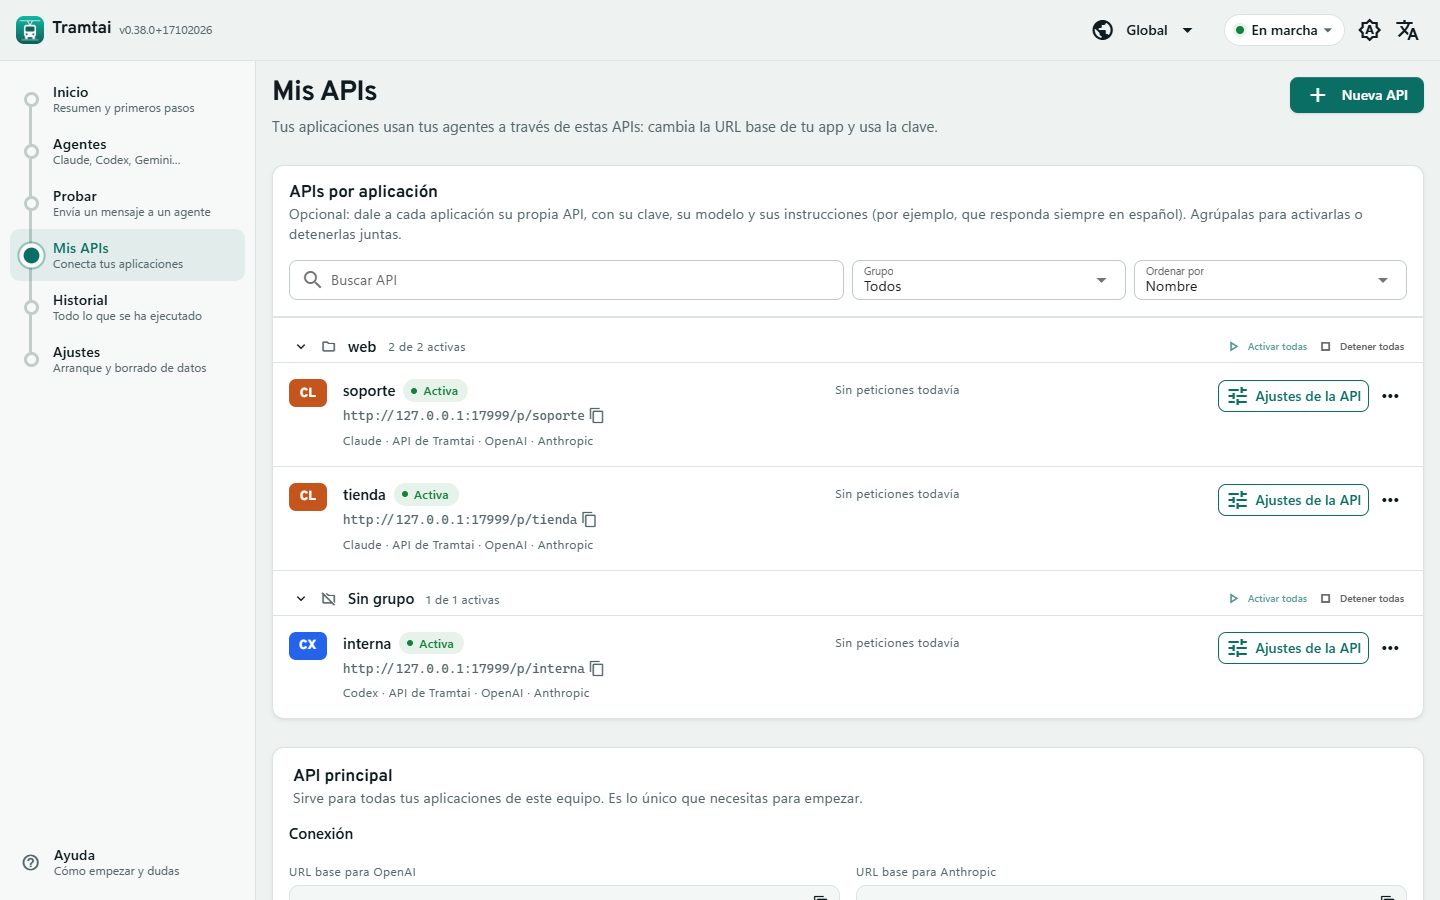
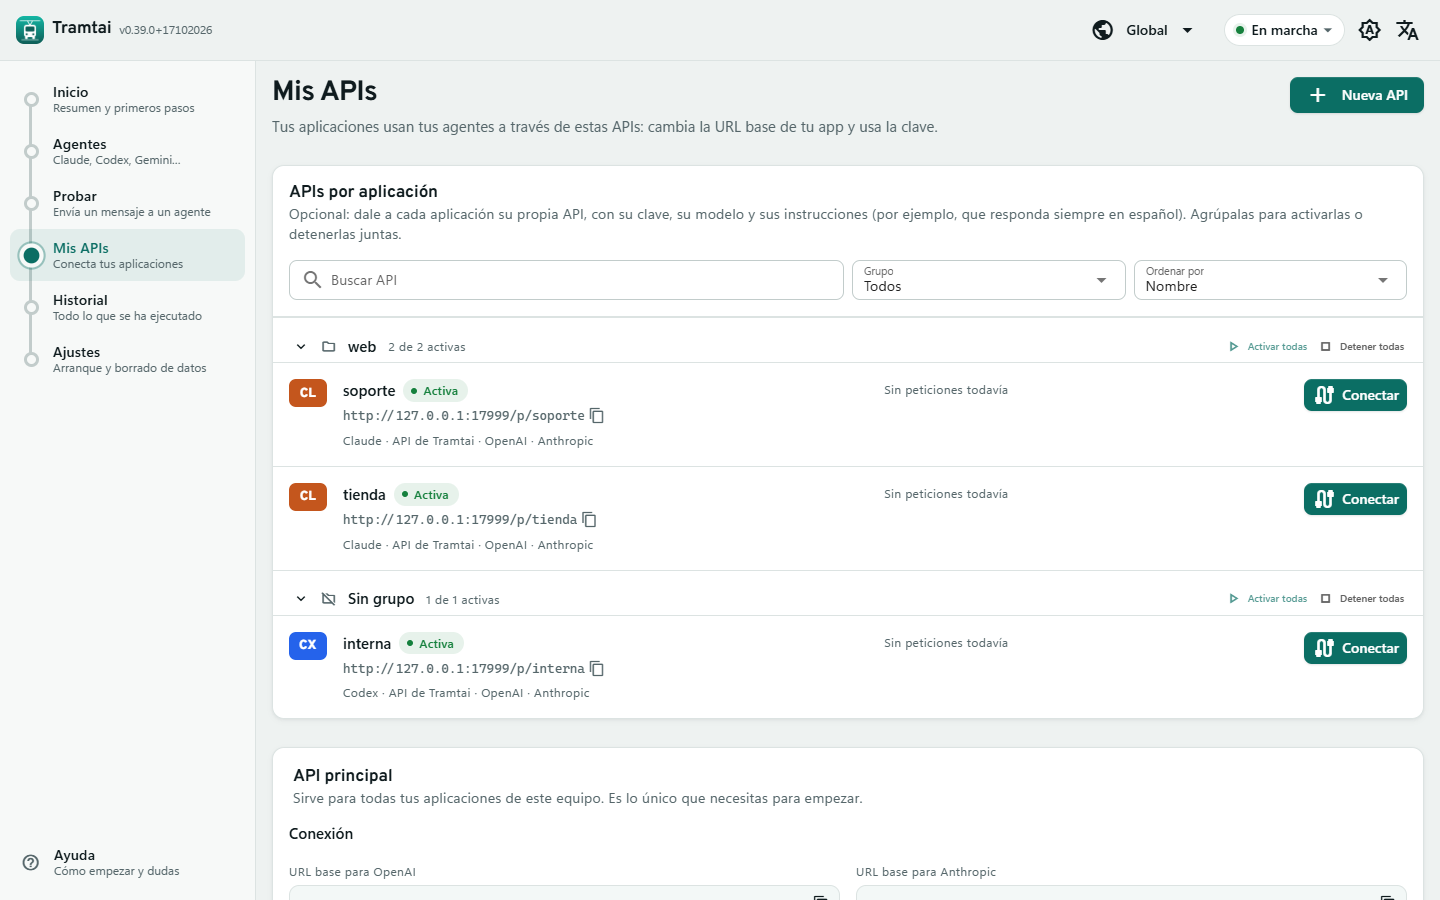
docs: cuenta atrás, detalle de cada API y pendientes cerrados
- operacion.md: la cuenta atrás antes de instalar y el detalle de cada API en Mis APIs.
- pendientes.md: sin listas de pendientes de las revisiones (queda el de webhooks, en su release) y sin la tarea del
  arranque en macOS y Linux, que ya existía.
- Página: textos alternativos en inglés (data-alt-en), theme-color también en oscuro; capturas y README con la Mis
  APIs nueva.

diff --git a/site/index.html b/site/index.html
@@ -8,7 +8,8 @@
 <meta property="og:title" content="Tramtai · Tus agentes de IA como una API local">
 <meta property="og:description" content="Claude Code, Codex, Antigravity y la API de Gemini como una API compatible con OpenAI y Anthropic, en tu equipo.">
 <meta property="og:image" content="logo.png">
-<meta name="theme-color" content="#0b6e64">
+<meta name="theme-color" content="#0b6e64" media="(prefers-color-scheme: light)">
+<meta name="theme-color" content="#0a1116" media="(prefers-color-scheme: dark)">
 <link rel="icon" href="logo.png">
 <link rel="stylesheet" href="estilo.css">
 <script>try { var t = localStorage.getItem('tramtai.tema'); if (t === 'claro' || t === 'oscuro') document.documentElement.dataset.tema = t } catch (e) {}</script>
@@ -138,13 +139,13 @@ respuesta = cliente.chat.completions.create(
       </div>
       <div class="capturas">
         <figure class="captura">
-          <img class="solo-claro" src="capturas/inicio-claro.png" width="1440" height="900" loading="lazy" alt="Inicio: tus apps, Tramtai y una línea por agente con su estado">
-          <img class="solo-oscuro" src="capturas/inicio-oscuro.png" width="1440" height="900" loading="lazy" alt="Inicio: tus apps, Tramtai y una línea por agente con su estado">
+          <img class="solo-claro" src="capturas/inicio-claro.png" width="1440" height="900" loading="lazy" alt="Inicio: tus apps, Tramtai y una línea por agente con su estado" data-alt-en="Home: your apps, Tramtai and one line per agent with its status">
+          <img class="solo-oscuro" src="capturas/inicio-oscuro.png" width="1440" height="900" loading="lazy" alt="Inicio: tus apps, Tramtai y una línea por agente con su estado" data-alt-en="Home: your apps, Tramtai and one line per agent with its status">
           <figcaption><span lang="es">Inicio: tus apps, Tramtai y una línea por agente con su estado</span><span lang="en">Home: your apps, Tramtai and one line per agent with its status</span></figcaption>
         </figure>
         <figure class="captura">
-          <img class="solo-claro" src="capturas/mis-apis-claro.png" width="1440" height="900" loading="lazy" alt="Mis APIs: la dirección, la clave y ejemplos listos para copiar">
-          <img class="solo-oscuro" src="capturas/mis-apis-oscuro.png" width="1440" height="900" loading="lazy" alt="Mis APIs: la dirección, la clave y ejemplos listos para copiar">
+          <img class="solo-claro" src="capturas/mis-apis-claro.png" width="1440" height="900" loading="lazy" alt="Mis APIs: tus APIs por grupo, con buscador y orden, y cómo conectar cada una" data-alt-en="My APIs: your APIs by group, with search and sorting, and how to connect each one">
+          <img class="solo-oscuro" src="capturas/mis-apis-oscuro.png" width="1440" height="900" loading="lazy" alt="Mis APIs: tus APIs por grupo, con buscador y orden, y cómo conectar cada una" data-alt-en="My APIs: your APIs by group, with search and sorting, and how to connect each one">
           <figcaption><span lang="es">Mis APIs: la dirección, la clave y ejemplos listos para copiar</span><span lang="en">My APIs: the address, the key and ready-to-copy examples</span></figcaption>
         </figure>
       </div>

diff --git a/site/ayuda.html b/site/ayuda.html
@@ -8,7 +8,8 @@
 <meta property="og:title" content="Ayuda · Tramtai">
 <meta property="og:description" content="Instalar, conectar agentes y aplicaciones, actualizaciones y preguntas frecuentes.">
 <meta property="og:image" content="logo.png">
-<meta name="theme-color" content="#0b6e64">
+<meta name="theme-color" content="#0b6e64" media="(prefers-color-scheme: light)">
+<meta name="theme-color" content="#0a1116" media="(prefers-color-scheme: dark)">
 <link rel="icon" href="logo.png">
 <link rel="stylesheet" href="estilo.css">
 <script>try { var t = localStorage.getItem('tramtai.tema'); if (t === 'claro' || t === 'oscuro') document.documentElement.dataset.tema = t } catch (e) {}</script>

diff --git a/site/sitio.js b/site/sitio.js
@@ -3,6 +3,11 @@
   var botones = document.querySelectorAll('[data-idioma]');
   function aplicar(idioma) {
     document.documentElement.lang = idioma;
+    // Los textos alternativos no admiten <span lang>: cada imagen guarda el inglés en data-alt-en.
+    document.querySelectorAll('img[data-alt-en]').forEach(function (img) {
+      if (!img.dataset.altEs) img.dataset.altEs = img.alt;
+      img.alt = idioma === 'en' ? img.dataset.altEn : img.dataset.altEs;
+    });
     botones.forEach(function (b) { b.setAttribute('aria-pressed', String(b.dataset.idioma === idioma)); });
   }
   var guardado = null;

diff --git a/docs/equipo/pendientes.md b/docs/equipo/pendientes.md
@@ -27,7 +27,8 @@ Cada tema va en su propio release, con su spec, plan, revisión y documentación
 | v0.36.0 | Rediseño de la presentación: cabecera común con Volver, Mis APIs, estados vacíos, esfuerzo predeterminado por modelo; página del producto con tema claro u oscuro y capturas nuevas | ✅ |
 | v0.36.1 | Probar: la línea de la ruta ya no se sale de la tarjeta mientras la petición avanza | ✅ |
 | v0.37.0 | Actualizaciones: se borran los instaladores descargados y, tras actualizar, un diálogo con las novedades de las versiones saltadas | ✅ |
-| — | Mis APIs con la lista primero (buscador, grupo, orden), grupos plegables y mapa de Inicio por grupo; Historial por origen y grupo con Ver más; límites del historial (tope de peticiones, plazos en Ajustes, compactar la base); origen de cada petición (Probar, terminal, CLI, app o API) | ⬜ |
+| v0.38.0 | Mis APIs con la lista primero (buscador, grupo, orden), grupos plegables y mapa de Inicio por grupo; Historial por origen y grupo con Ver más; límites del historial (tope de peticiones, plazos en Ajustes, compactar la base); origen de cada petición (Probar, terminal, CLI, app o API) | ✅ |
+| — | Pulido: cuenta atrás de 10 s antes de instalar (Reiniciar ahora o Cancelar); detalle de cada API en Mis APIs con cómo conectarla y sus acciones; todos los pendientes de las revisiones cerrados | ⬜ |
 | — | Probar: esfuerzo junto al modelo, esfuerzo por agente de respaldo con su predeterminado, registro con tiempos por etapa, historial breve de pruebas y respuesta con formato Markdown | ⬜ |
 | — | API propia `/api/v1` explicada: guía «¿Qué URL uso?», ejemplos para copiar y documentación | ⬜ |
 | — | Copilot CLI como agente nuevo | ⬜ |
@@ -39,10 +40,6 @@ Cada tema va en su propio release, con su spec, plan, revisión y documentación
 Pendientes ya asignados:
 
 - **Webhooks:** los avisos del 80 % y del 100 % se evalúan con los periodos de la hora actual, pero el consumo va al día de aceptación: un cruce del día anterior causado por un trabajo que termina pasada la medianoche no se registra. Evaluar también el periodo de aceptación al sumar.
-- **Grupos e historial (posterior):** la purga con tope usa `NOT IN` (unos 0,5 s con 100 000 trabajos; calcular el corte con `OFFSET`); el `VACUUM` único al actualizar no deja línea en el registro ni trunca el WAL; «Ver más» no descarta su respuesta si el filtro cambió en medio; Mis APIs oculta la barra con una sola API aunque quede un filtro activo; Ajustes redondea a días un registro que no es múltiplo de 24 h; plurales («1 APIs», «1 activas», «1 días»); el mapa en el móvil no muestra las activas de cada grupo; `fijarRetencion` no registra el error de su purga; `Purgar` no cuenta lo que borra el tope; en 375 px «Detener todas» baja de línea.
-- **Actualizaciones (posterior):** guardar en memoria unos minutos la lista de versiones de GitHub (hoy cada consulta de novedades va a GitHub, que admite 60 por hora) y responder un mensaje fijo en vez del error de red; abrir el diálogo de novedades al momento con un indicador mientras llegan las notas; con una sola versión que no sea la instalada, mostrar su número; `aria-labelledby` en los diálogos de `App.vue`; el comentario del paquete `actualizacion` no menciona la lista de versiones.
-- **Rediseño (posterior):** la pantalla en blanco al pulsar Instalar quedó resuelta en v0.36.0 (el avance se muestra al momento); el usuario lo verificó al actualizar de la 0.36.0 a la 0.36.1. Menores aplazados de la revisión: flechas y nombre por fila en el menú «⋯», nombre accesible del logo (WCAG 2.5.3), textos alternativos de las capturas solo en español, niveles de título y `theme-color` en oscuro en la página, `.ayuda-campo` y `puntos.activar` sin uso, doble relleno en Probar.
-- **Presupuestos (posterior):** detectar una API eliminada con el servicio detenido (hoy su consumo se conserva si se borra a mano o sin servicio); los tokens de intentos fallidos o descartados por el respaldo no se suman.
 
 ## Tareas
 
@@ -56,4 +53,3 @@ Pendientes ya asignados:
 - [ ] Entrada directa de la Web UI en el navegador en macOS (identificar al dueño de la conexión con libproc); hoy se entra desde la app o con `tramtai abrir`.
 - [ ] **Antigravity con la cuenta personal (evaluado 2026-10-12, no se implementa por ahora).** OmniRoute ofrece `agy` por OAuth: importa el archivo de token del CLI, detecta su sesión local o inicia sesión con Google, y usa el backend de Antigravity (incluidos los modelos Claude). Tramtai no lo hace por dos motivos: nunca lee ni copia credenciales de los CLIs, y la FAQ de Antigravity dice que usar software de terceros para acceder a Antigravity viola sus términos (hay suspensiones de cuentas con 403 documentadas en el foro de Google AI); Google recomienda una clave de Vertex o AI Studio, que es lo que Tramtai ya usa. Revisar si Google publica un modo permitido para herramientas de terceros; mientras tanto, como mucho, un modo `suscripcion` opt-in que solo ejecute el `agy` oficial con su propia sesión (sin tocar tokens), con aviso explícito de riesgo de suspensión.
 - [ ] Memoria entre conversaciones (engram u otra vía MCP): evaluar una opción por proyecto (en `consciente_proyecto`, que ya carga la configuración del proyecto) y si tiene sentido una global; hoy Tramtai es solo puente, sin memoria compartida entre aplicaciones.
-- [ ] Arranque con el sistema en Linux (unidad de usuario de systemd o `~/.config/autostart`) y macOS (LaunchAgent); hoy solo Windows.

diff --git a/docs/operacion.md b/docs/operacion.md
@@ -65,7 +65,7 @@ Activado en **Ajustes** o con `tramtai servicio autoarranque activar`, Tramtai s
 
 Cada hora, el servicio pregunta a GitHub cuál es la última versión publicada (solo esa ficha pública; no envía ningún dato tuyo); la ventana se lo vuelve a preguntar cada 15 minutos y al volver a ella, y la bandeja, cada pocos segundos. Así el aviso aparece sin reiniciar la app. Si hay una más nueva:
 
-- La cabecera de la Web UI muestra **Actualizar** y el menú de la bandeja, **Actualizar a vX…**. **Actualizar ahora** descarga el instalador, comprueba su suma SHA-256 con `SHA256SUMS.txt` y lo ejecuta en silencio: la app se cierra, el servicio se detiene tras terminar las peticiones en curso (`servicio.plazo_drenaje_segundos`) y la app vuelve a abrirse con la versión nueva, con tu configuración y tus datos.
+- La cabecera de la Web UI muestra **Actualizar** y el menú de la bandeja, **Actualizar a vX…**. **Actualizar ahora** descarga el instalador, comprueba su suma SHA-256 con `SHA256SUMS.txt` y avisa «Tramtai se reiniciará en 10 s», con **Reiniciar ahora** y **Cancelar** (borra la descarga); al vencer lo ejecuta en silencio: la app se cierra, el servicio se detiene tras terminar las peticiones en curso (`servicio.plazo_drenaje_segundos`) y la app vuelve a abrirse con la versión nueva, con tu configuración y tus datos.
 - Para no esperar a la próxima comprobación: **Ajustes → Buscar actualizaciones → Buscar ahora** o, en la bandeja, **Buscar actualizaciones**; consultan GitHub en el momento (como mucho una vez cada 10 segundos) aunque la búsqueda automática esté desactivada.
 - Si instalas una versión a mano con Tramtai abierto (sea la instalada, la portable o una copia compilada), el instalador te avisa, cierra la app, detiene el servicio cuando terminan las peticiones en curso y, al acabar, vuelve a abrir lo que estaba abierto.
 - Tras actualizar, la Web UI muestra una vez las novedades de cada versión desde la última que viste en ese navegador (hasta 10, la más nueva abierta), con el enlace a todas las versiones. Si la búsqueda de actualizaciones está desactivada, o GitHub no responde, solo dice la versión nueva y ofrece el enlace.
@@ -186,6 +186,8 @@ tramtai acceso reiniciar-presupuesto tienda    # sin nombre, el de la instancia
 ```
 
 En **Mis APIs**, la lista de APIs va primero, con un buscador, un selector de grupo y el orden (nombre, más usadas o última petición); la conexión de la API principal y los ejemplos van debajo. Cada grupo se pliega desde su cabecera y el navegador recuerda cuáles quedaron plegados. En el mapa de **Inicio**, cada grupo es una estación («web · 3 APIs», con sus activas debajo) que abre Mis APIs filtrada por ese grupo.
+
+Cada API tiene un botón **Conectar** (también se abre pulsando su fila) con su detalle: las URL base según lo que acepta (OpenAI, Anthropic, API propia), la clave —que solo se ve al crearla o regenerarla; si no la tienes, **Regenerar la clave** muestra una nueva y la anterior deja de valer—, los ejemplos para copiar con su URL y su modelo, las acciones (ajustes, Probar, peticiones, activar o detener) y, aparte, **Eliminar la API**. Al crear una API se abre su detalle con la clave nueva.
 
 - **Clave:** `tramtai acceso crear`, Mis APIs y «Guardar como API» en Probar muestran la clave una sola vez, al crearla. Tramtai guarda solo su huella SHA-256 (`datos/tokens/acceso_<nombre>` contiene `sha256:…`), así que no se puede volver a ver: si se pierde, se regenera (`--rotar` o **Regenerar la clave**) y la anterior deja de valer. `tramtai acceso token <nombre>` sin `--rotar` lo explica. Las claves antiguas guardadas en claro se convierten solas a huella y siguen valiendo. Eliminar una API borra también su clave.
 - **Instrucciones:** `--instrucciones` (o el campo del mismo nombre en Mis APIs, editable después) se antepone a las instrucciones de cada petición que llega por ese punto, venga de la aplicación que venga. Sirve, por ejemplo, para que una app que no lo permite configurar responda siempre en español.

diff --git a/README.md b/README.md
@@ -81,7 +81,7 @@ print(r.choices[0].message.content)
 
 Con el SDK de Anthropic, la URL base es `http://127.0.0.1:17373/anthropic`. Todas las rutas y opciones están en la [referencia de la API](docs/api.md).
 
-<p align="center"><img src="docs/imagenes/mis-apis-oscuro.png" alt="Mis APIs en modo oscuro: URL base, clave y ejemplos listos para copiar" width="820"></p>
+<p align="center"><img src="docs/imagenes/mis-apis-oscuro.png" alt="Mis APIs en modo oscuro: tus APIs por grupo, con buscador, orden y el botón Conectar de cada una" width="820"></p>
 
 ## Actualizaciones
 
